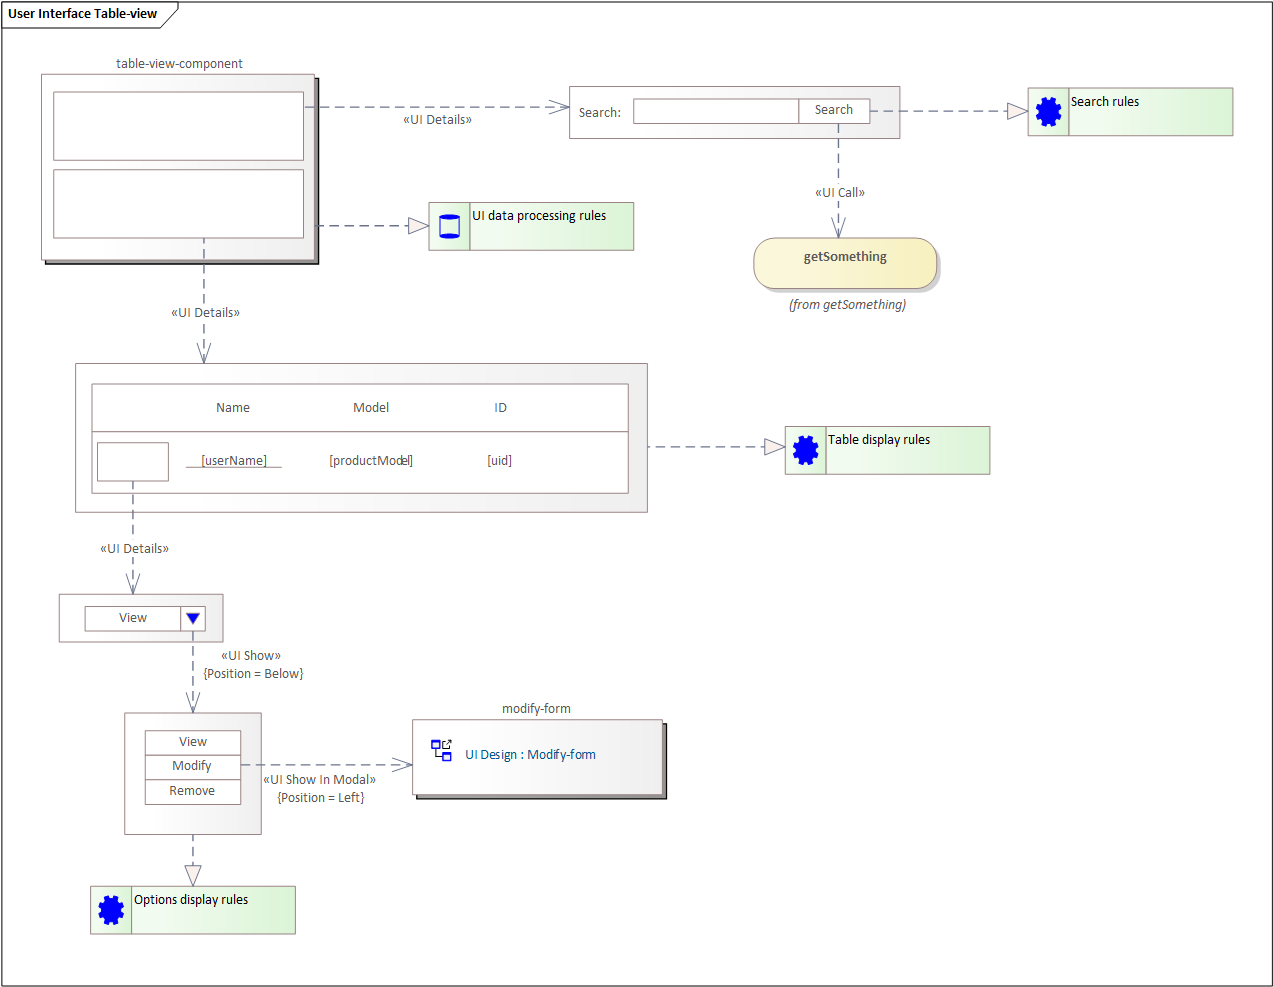
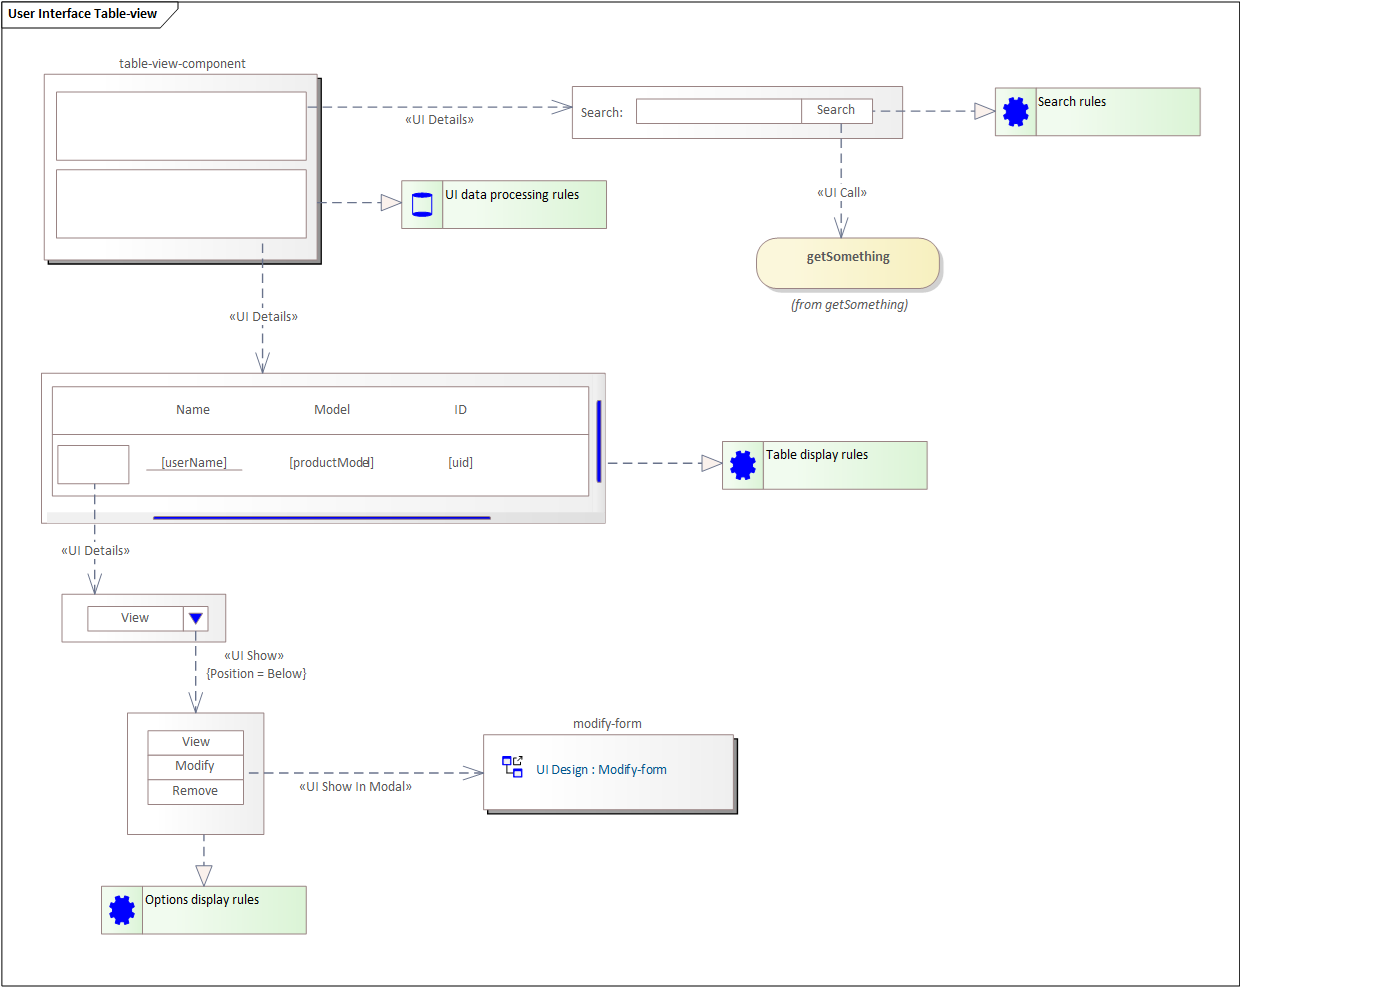
chore: MDG for user interface design
Correction of examples.
Improvement of the installation description.
Addition of a `UI Navigate` relationship between the panel and the component.

diff --git a/docs/pl/examples/google-search.md b/docs/pl/examples/google-search.md
@@ -1,10 +1,12 @@
-# Modelowanie interfejsu użytkownika na przykładzie wyszukiwarki Googla
+# Modelowanie interfejsu użytkownika na przykładzie wyszukiwarki Google
 
 ## Wprowadzenie
 
 W niniejszym artykule omówiony został przykład wykorzystania modelowania interfejsów użytkownika w oparciu o wyszukiwarkę udostępnianą przez Google.
 
-## Wyszukiwarka Googla
+Przedstawiony model nie pokazuje pełnej złożoności wyszukiwarki Google. Pewne jej elementy zostały celowo pominięte, żeby zmniejszyć złożoność modelu.
+
+## Wyszukiwarka Google
 
 Na poniższym rysunku pokazana została strona wyszukiwarki:
 
@@ -30,6 +32,10 @@ Poniższy obrazek pokazuje wyszukiwarke Google w postaci modelu przy użyciu opi
 
 ![Model wyszukiwarki Google](../../img/google-search-model.png).
 
-Wyszukiwarka została przedstawiona w postaci komponentu składającego się z 3 paneli. Każdy z paneli posiada uszczegółowienie. Panele obsługujące obszary 1 i 3 głównie składają się z linków albo do innych usług Google, albo do informacji. Link w modelu przedstawiony jest w postaci przycisku. Kliknięcie w niego powoduje przejście do funkcjonalności opisanej w postaci komponentu. Do opisu przejścia wykorzystano relację `UI Navigate`. Na uwagę zasługuje opcja znajdująca się po lewej stronie przycisku `Sign in`. Opcja ta została przedstawiona przy pomocy przycisku, do którego dowiązany jest panel przy pomocy relacji `UI Show` z atrybutem `Position` ustawionym na `Below`. W ten sposób kliknięcie w przycisk skutkuje wyświetleniem powiązanego panelu w miejscu po przyciskiem. Panel zestawia usługi Google.
+Wyszukiwarka została przedstawiona w postaci komponentu składającego się z 3 paneli. Każdy z paneli posiada uszczegółowienie. Panele obsługujące obszary 1 i 3 obsługują głównie linki albo do innych usług Google albo do informacji (regulamin, itp). Link w modelu przedstawiony jest w postaci przycisku. Kliknięcie w niego powoduje przejście do funkcjonalności opisanej w postaci komponentu. Do opisu przejścia wykorzystano relację `UI Navigate`. Na uwagę zasługuje opcja znajdująca się po lewej stronie przycisku `Sign in`. Opcja ta została przedstawiona przy pomocy przycisku, do którego dowiązany jest panel przy pomocy relacji `UI Show` z atrybutem `Position` ustawionym na `Below`. W ten sposób kliknięcie w przycisk skutkuje wyświetleniem powiązanego panelu w miejscu pod przyciskiem. Panel zestawia usługi Google. Usługi te zostały pokazane w postaci listy. W każdym wierszu listy wyświetlane są 3 panele. Każdy z nich reprezentuję dostępną dla użytkownika usługę Google. Kliknięcie w niego skutkuje uruchomienie wskazanej usługi. Na modelu wykorzystano uszczegółowienie `UI Details`. Powiązanie z usługą nie zostało pokazane.
 
-Obszar 2 opisuje podstawową funkcjonalność wyszukiwarki. Oprócz obrazka loga Google zawiera element umożliwiający wprowadzenie poszukiwanej frazy. Oprócz tego pokazywane są dodatkowe opcje. Wprowadzenie frazy w pole edycyjne lub naciśnięcie przycisku znajdującego się po lewej stronie pola edycyjnego skutkuje wyświetleniem panelu z podpowiedziami. Panel ten jest wyświetlany pod polem edycyjnym (na modelu przedstawione zostało to przez połączenie przycisku z panelem przy pomocy relacji `UI Show` z atrybutem `Position` równym `Below`. Został wymodelowany w postaci listy elementów i przycisków opcji. Pozycja ma uszczegółowienie w postaci panelu zawierającego ikonę, podpowiedź i temat. Zasady wyświetlania danych podpowiedzi opisane zostały w dowiązanym do panelu wymaganiu. Na szczególną uwagę zasługuje przycisk otwierający klawiaturę ekranową. Przycisk ten został zlokalizowany po prawej stronie elementu edycyjnego wyszukiwarki. Relacja (`UI Show As`) wiążącą ten przycisk z komponentem obsługującym klawiaturę ekranową opisuje sposób wyświetlenia jako nakładkę nieblokującą dostępu do przykrywanych opcji, wyświetlaną w prawym dolnym rogu widoku przeglądarki. Jest to opisane na relacji przy wykorzystaniu atrybutu `Type` o wartości `Overlay` i `Position` o wartości `Bottom Right`.
+Obszar 2 opisuje podstawową funkcjonalność wyszukiwarki. Oprócz obrazka loga Google zawiera element umożliwiający wprowadzenie poszukiwanej frazy. Oprócz tego pokazywane są dodatkowe opcje. Wprowadzenie frazy w pole edycyjne lub naciśnięcie przycisku znajdującego się po lewej stronie pola edycyjnego skutkuje wyświetleniem panelu z podpowiedziami.
+
+Panel ten jest wyświetlany pod polem edycyjnym (na modelu przedstawione zostało to przez połączenie przycisku z panelem przy pomocy relacji `UI Show` z atrybutem `Position` równym `Below`. Został wymodelowany w postaci listy elementów i przycisków opcji. Pozycja ma uszczegółowienie w postaci panelu zawierającego ikonę, podpowiedź i temat. Zasady wyświetlania danych podpowiedzi opisane zostały w dowiązanym do panelu wymaganiu.
+
+Na szczególną uwagę zasługuje przycisk otwierający klawiaturę ekranową. Przycisk ten został zlokalizowany po prawej stronie elementu edycyjnego wyszukiwarki. Relacja (`UI Show As`) wiążącą ten przycisk z komponentem obsługującym klawiaturę ekranową opisuje sposób wyświetlenia jako nakładkę nieblokującą dostępu do przykrywanych opcji, wyświetlaną w prawym dolnym rogu widoku przeglądarki. Jest to opisane na relacji przy wykorzystaniu atrybutu `Type` o wartości `Overlay` i `Position` o wartości `Bottom Right`.

diff --git a/docs/en/definitions/panel.md b/docs/en/definitions/panel.md
@@ -2,7 +2,14 @@
 
 ## Panel
 
-A panel is an integral part of a component. It represents a fragment of the user interface provided by the component. It should be used as an element for decomposing the interface into logical parts that are independently handled according to the principles established by the designer.
+A panel is an integral part of a component. It represents a fragment of the user interface provided by the component. It should be used as an element for decomposing the interface into logical fragments that can be independently managed according to the designer’s principles.
+
+There are two variants:
+
+* a simple panel
+* a scrollable panel
+
+### Simple Panel
 
 In the model, the panel is represented by:
 
@@ -13,3 +20,32 @@ or:
 ![Panel](../../img/ui-panel-name.png)
 
 The panel may contain other panels or basic user interface elements.
+
+### Scrollable Panel
+
+A scrollable panel in the model can be presented in the following variants:
+
+![Panel](../../img/ui-scrollable-panel-horizontal-vertical.png)
+
+or:
+
+![Panel](../../img/ui-scrollable-panel-name-horizontal-vertical.png)
+
+or:
+
+![Panel](../../img/ui-scrollable-panel-horizontal.png)
+
+or:
+
+![Panel](../../img/ui-scrollable-panel-vertical.png)
+
+or:
+
+![Panel](../../img/ui-scrollable-panel-name-hidden-horizontal-vertical.png)
+
+A scrollable panel should be used for building various types of lists (e.g., tabular lists or standard lists). Its use indicates that the panel’s content will be scrollable when it exceeds the panel’s dimensions.
+
+A panel can contain other panels or basic user interface elements. 
+
+Scrollbars are displayed to indicate the need to scroll content horizontally, vertically, or in both directions. It is assumed that if the content does not exceed the panel’s dimensions, the scrollbars are either disabled or not displayed (depending on the tools used or other design decisions).
+

diff --git a/docs/pl/definitions/panel.md b/docs/pl/definitions/panel.md
@@ -4,6 +4,13 @@
 
 Panel jest to integralna część komponentu. Reprezentuj fragment interfejsu użytkownika udostępnianego przez komponent. Powinien być wykorzystywany jako element dekompozycji na logiczne fragmenty obsługiwane samodzielnie zgodnie z zasadami założonymi przez projektanta.  
 
+Występuje w dwóch wariantach:
+
+* prostego panelu
+* panelu z możliwością scrollowania
+
+### Prosty panel
+
 Panel na modelu jest reprezentowany przez:
 
 ![Panel](../../img/ui-panel.png)
@@ -13,3 +20,29 @@ lub:
 ![Panel](../../img/ui-panel-name.png)
 
 Panel może zawierać inne panele lub podstawowe elementy interfejsu użytkownika.
+
+### Panel scrollowalny
+
+Panel scrollowalny na modelu może być przedstawiony w następujących wariantach:
+
+![Panel](../../img/ui-scrollable-panel-horizontal-vertical.png)
+
+lub:
+
+![Panel](../../img/ui-scrollable-panel-name-horizontal-vertical.png)
+
+lub:
+
+![Panel](../../img/ui-scrollable-panel-horizontal.png)
+
+lub:
+
+![Panel](../../img/ui-scrollable-panel-vertical.png)
+
+lub:
+
+![Panel](../../img/ui-scrollable-panel-name-hidden-horizontal-vertical.png)
+
+Panel scrollowalny powinien być wykorzystywany do budowy różnego rodzaju zestawień (zestawienia tabelarycznego, czy listy). Jego wykorzystanie informuje, że zawartość panelu będzie scrollowalna w sytuacjach, gdy przekroczy rozmiary panelu.
+
+Panel może zawierać inne panele lub podstawowe elementy interfejsu użytkownika. Scrollbary pokazywane są w celu pokazania potrzeby przesuwania zawartości w poziomie lub pionie lub w obu kierunkach. Zakłada się, że w przypadku, gdy zawartość nie przekracza rozmiarów panelu to scrollbary są zablokowane albo nie wyświetlane (zależnie od od wykorzystywanych narzędzi lub innych decyzji projektowych).

diff --git a/README.md b/README.md
@@ -5,8 +5,9 @@ MDG for Sparx Enterprise Architect gathers a set of basic tools related to user 
 
 ## Installation
 
-1. Download [./mdg/user-interface-modeling-tools.mts](./mdg/user-interface-modeling-tools.mts)
-2. Use "[Import MDG Technologies to Model](https://sparxsystems.com/enterprise_architect_user_guide/17.0/modeling_frameworks/importmdgtechnologies.html)"
+1. Download [./mdg/user-interface-modeling-tools.mts](./mdg/)
+2. Refer to "[Import MDG Technologies to Model](https://sparxsystems.com/enterprise_architect_user_guide/17.0/modeling_frameworks/importmdgtechnologies.html)" or "[Manage MDG Technologies](https://sparxsystems.com/enterprise_architect_user_guide/17.0/modeling_frameworks/manage_mdg_technologies.html)"
+3. Import MDG Technology or add an MDG Technology directory
 
 ## How to used it
 

diff --git a/docs/pl/examples/table-view.md b/docs/pl/examples/table-view.md
@@ -14,7 +14,7 @@ Zasady przechowywania i obsługi danych wewnątrz komponentu zostały opisane w 
 
 Komponent składa się z dwóch elementów:
 
-* zestawu pól umożliwiających wprowadzenie kryterium wyszukiwania,m
+* zestawu pól umożliwiających wprowadzenie kryterium wyszukiwania,
 * tabeli zestawiającej wyszukiwane dane.
 
 Oba wymienione wyżej elementy mają uszczegółowienia przedstawione w postaci paneli powiązanych relacją `UI Details`.
